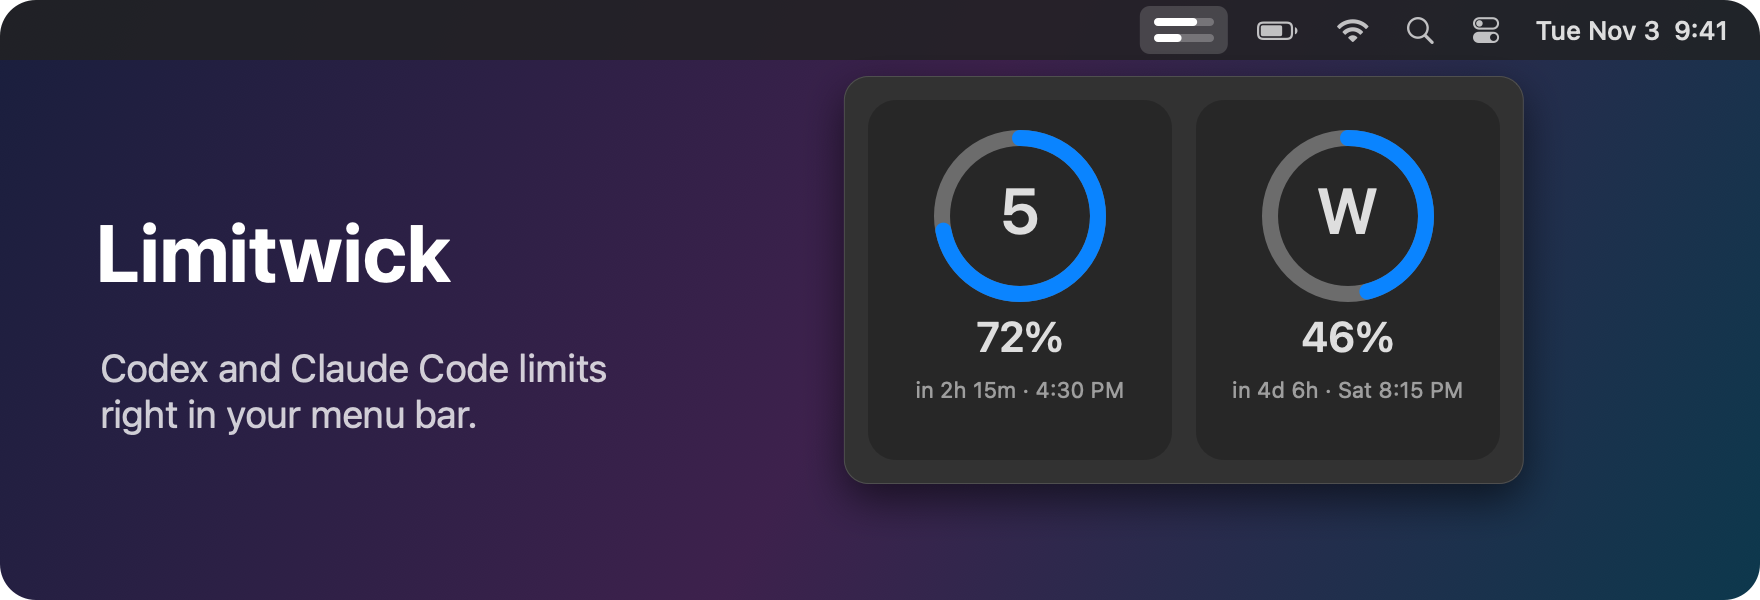
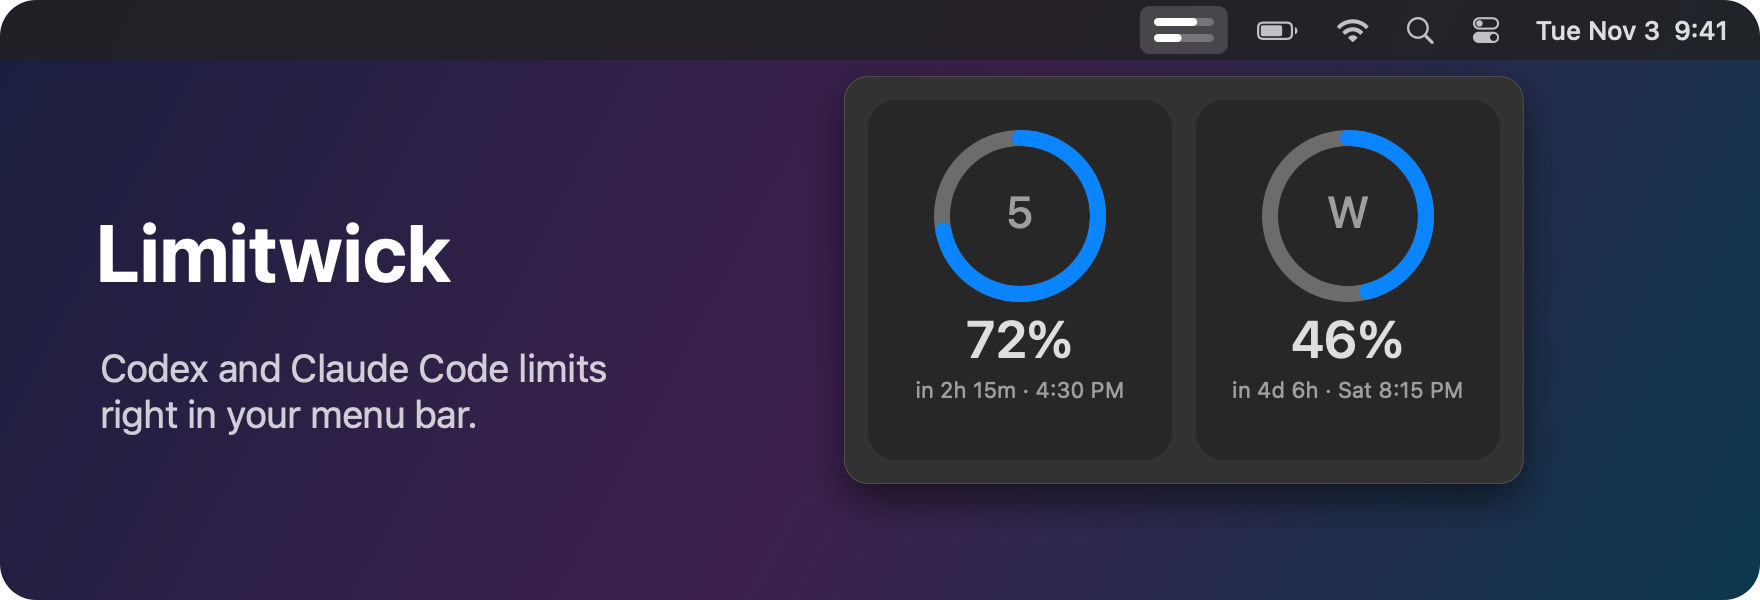
Polish About, Terminal, menu and Classic hierarchy
- About describes Codex and Claude Code limits.
- In the dual panel, Terminal no longer repeats the provider heading
  above its own "> NAME / LIMITS" header; its error note follows the
  readout it qualifies.
- Menu rows stay clear at rest and fill only on hover or keyboard
  selection; thin lines set off Refresh and Quit.
- Classic shows the percentage larger than the period letter in the
  ring, in the panel and in the widget.

diff --git a/Sources/InterfaceViews.swift b/Sources/InterfaceViews.swift
@@ -33,13 +33,15 @@ final class QuotaTile: NSView {
         self.symbol = symbol
         super.init(frame: NSRect(x: 0, y: 0, width: 152, height: 180))
         ring.frame = NSRect(x: 31, y: 77, width: 90, height: 90)
+        // The percentage is the reading; the period letter inside the ring only labels it.
         symbolLabel.stringValue = symbol
-        symbolLabel.font = .systemFont(ofSize: 32, weight: .semibold)
+        symbolLabel.font = .systemFont(ofSize: 22, weight: .medium)
+        symbolLabel.textColor = .secondaryLabelColor
         symbolLabel.alignment = .center
-        symbolLabel.frame = NSRect(x: 31, y: 99, width: 90, height: 45)
-        valueLabel.font = .systemFont(ofSize: 21, weight: .semibold)
+        symbolLabel.frame = NSRect(x: 31, y: 107, width: 90, height: 30)
+        valueLabel.font = .systemFont(ofSize: 26, weight: .semibold)
         valueLabel.alignment = .center
-        valueLabel.frame = NSRect(x: 8, y: 46, width: 136, height: 28)
+        valueLabel.frame = NSRect(x: 8, y: 43, width: 136, height: 33)
         resetLabel.font = .systemFont(ofSize: 11)
         // The system secondary gray is 3.9:1 on the light tile; a darker gray keeps 4.5:1.
         resetLabel.textColor = NSColor(name: nil) { $0.bestMatch(from: [.darkAqua, .aqua]) == .darkAqua ? .secondaryLabelColor : NSColor(white: 0.40, alpha: 1) }
@@ -63,8 +65,8 @@ final class QuotaTile: NSView {
         frame.size.height = 180 + extra
         resetLabel.frame.size.height = 34 + extra
         ring.frame.origin.y = 77 + extra
-        symbolLabel.frame.origin.y = 99 + extra
-        valueLabel.frame.origin.y = 46 + extra
+        symbolLabel.frame.origin.y = 107 + extra
+        valueLabel.frame.origin.y = 43 + extra
     }
     func update(_ window: QuotaWindow?, reset: String, stale: Bool = false) {
         ring.value = window?.remaining
@@ -139,11 +141,14 @@ final class MenuButton: NSButton {
     override func draw(_ dirtyRect: NSRect) {
         guard let p = paletteProvider?() else { return }
         let selected = isEnabled && (hovered || keyboardSelected)
+        // Rows stay clear at rest like a native menu; only the selected row and an update offer are filled.
         let background = highlightsUpdate
             ? (p.background.blended(withFraction: selected ? 0.36 : 0.24, of: .systemBlue) ?? p.surface)
-            : (p.background.blended(withFraction: selected ? 0.18 : 0.07, of: p.text) ?? p.surface)
-        background.setFill()
-        NSBezierPath(roundedRect: bounds.insetBy(dx: 2, dy: 1), xRadius: 6, yRadius: 6).fill()
+            : selected ? (p.background.blended(withFraction: 0.14, of: p.text) ?? p.surface) : nil
+        if let background = background {
+            background.setFill()
+            NSBezierPath(roundedRect: bounds.insetBy(dx: 2, dy: 1), xRadius: 6, yRadius: 6).fill()
+        }
         let foreground = isEnabled ? p.text : p.secondary.withAlphaComponent(0.55)
         let font = fontProvider?() ?? NSFont.systemFont(ofSize: 13, weight: .regular)
         let shortcutFont = NSFont.systemFont(ofSize: 12, weight: .regular)
@@ -167,6 +172,15 @@ final class MenuButton: NSButton {
         }
         if event.keyCode == 36 || event.keyCode == 76 || event.keyCode == 49 { performClick(nil); return }
         super.keyDown(with: event)
+    }
+}
+
+final class MenuSeparator: NSView {
+    var paletteProvider: (() -> ThemePalette)?
+    override func draw(_ dirtyRect: NSRect) {
+        guard let p = paletteProvider?() else { return }
+        p.text.withAlphaComponent(0.14).setFill()
+        NSRect(x: 12, y: floor(bounds.midY), width: bounds.width - 24, height: 1).fill()
     }
 }
 
@@ -286,9 +300,13 @@ final class ThemedProvidersView: NSView {
         }
         for item in providers {
             // A failure or previous-data note sits under the provider name, next to the values it qualifies.
+            // Terminal prints the name in its own "> NAME / LIMITS" header, so its note follows the readout.
             let note = item.status.hasPrefix("Updated ") ? "" : item.status
-            addLabel(item.name, font: .systemFont(ofSize: 14, weight: .semibold), color: foreground, spacing: note.isEmpty ? 8 : 2, heading: true)
-            addLabel(note, font: .systemFont(ofSize: 12), color: secondary, spacing: 8)
+            let ownHeader = theme == .terminal
+            if !ownHeader {
+                addLabel(item.name, font: .systemFont(ofSize: 14, weight: .semibold), color: foreground, spacing: note.isEmpty ? 8 : 2, heading: true)
+                addLabel(note, font: .systemFont(ofSize: 12), color: secondary, spacing: 8)
+            }
             let five = item.quota?.fiveHour, week = item.quota?.weekly
             let fiveReset = five?.reset.map { ResetText.describe($0) } ?? "Reset unavailable"
             let weekReset = week?.reset.map { ResetText.describe($0) } ?? "Reset unavailable"
@@ -302,6 +320,7 @@ final class ThemedProvidersView: NSView {
                 let height = view.preferredContentHeight + view.outerInset
                 view.frame = NSRect(x: 0, y: y, width: 340, height: height)
                 addSubview(view); y += height
+                if ownHeader { addLabel(note, font: .systemFont(ofSize: 12), color: secondary, spacing: 10) }
             } else {
                 let first = QuotaTile(symbol: "5"), second = QuotaTile(symbol: "W")
                 first.update(five, reset: fiveReset, stale: item.stale); second.update(week, reset: weekReset, stale: item.stale)

diff --git a/Sources/MenuInterface.swift b/Sources/MenuInterface.swift
@@ -8,7 +8,7 @@ extension AppDelegate {
             let version = Bundle.main.infoDictionary?["CFBundleShortVersionString"] as? String ?? "Unknown"
             let title = heading("Limitwick")
             let versionLabel = NSTextField(labelWithString: "Version \(version)"); versionLabel.tag = 902
-            let description = NSTextField(wrappingLabelWithString: "A menu bar app for Codex usage limits."); description.widthAnchor.constraint(equalToConstant: 312).isActive = true
+            let description = NSTextField(wrappingLabelWithString: "Codex and Claude Code limits in your menu bar."); description.widthAnchor.constraint(equalToConstant: 312).isActive = true
             let github = NSButton(title: "GitHub", target: self, action: #selector(openGitHub))
             let close = NSButton(title: "Close", target: self, action: #selector(closeAbout))
             let buttons = NSStackView(views: [github, close]); buttons.orientation = .horizontal; buttons.spacing = 8
@@ -56,9 +56,14 @@ extension AppDelegate {
             buttons.append(item)
         }
         view.items = buttons.compactMap { $0 as? MenuButton }
-        let list = stack(buttons, spacing: 2)
-        list.setCustomSpacing(10, after: buttons[0])
-        list.setCustomSpacing(10, after: buttons[4])
+        func separator() -> NSView {
+            let line = MenuSeparator(); line.paletteProvider = view.items.first?.paletteProvider
+            line.widthAnchor.constraint(equalToConstant: 250).isActive = true
+            line.heightAnchor.constraint(equalToConstant: 9).isActive = true
+            return line
+        }
+        // Lines set off Refresh and Quit from the other commands.
+        let list = stack([buttons[0], separator()] + buttons[1..<(buttons.count - 1)] + [separator(), buttons[buttons.count - 1]], spacing: 2)
         install(list, in: view, width: 298)
         let controller = NSViewController(); controller.view = view; menu.contentViewController = controller
         view.dismiss = { [weak menu] in menu?.performClose(nil) }

diff --git a/Tests/PanelThemeTests.swift b/Tests/PanelThemeTests.swift
@@ -16,7 +16,8 @@ import AppKit
                 let height = view.configure(providers, theme: theme, appearance: appearance, threshold: 20)
                 view.frame = NSRect(x: 0, y: 0, width: 340, height: height)
                 let labels = view.subviews.compactMap { $0 as? NSTextField }
-                precondition(labels.map(\.stringValue).contains("Codex") && labels.map(\.stringValue).contains("Claude"))
+                // Terminal names the provider in its own header instead of a separate heading.
+                precondition(labels.map(\.stringValue).contains("Codex") == (theme != .terminal) && labels.map(\.stringValue).contains("Claude") == (theme != .terminal))
                 precondition(!labels.contains { $0.stringValue == "Updated just now" })
                 precondition(labels.contains { $0.stringValue == error && $0.frame.height > 100 })
                 precondition(labels.contains { $0.stringValue.contains("Extra week: 22%") && $0.stringValue.contains("Conflicting") })
@@ -31,7 +32,8 @@ import AppKit
                 else {
                     precondition(themed.count == 2 && themed[0].data.fiveHour == 72 && themed[1].data.weekly == 84)
                     precondition(themed[0].data.providerName == "Codex" && themed[1].data.providerName == "Claude")
-                    precondition(themed[0].data.stale && !themed[1].data.stale && note.frame.maxY <= themed[0].frame.minY)
+                    precondition(themed[0].data.stale && !themed[1].data.stale)
+                    precondition(theme == .terminal ? note.frame.minY >= themed[0].frame.maxY && note.frame.maxY <= themed[1].frame.minY : note.frame.maxY <= themed[0].frame.minY)
                     precondition(themed[0].quotaColor(72, normal: .systemBlue).alphaComponent < 1 && themed[0].quotaColor(5, normal: .systemBlue) != .systemBlue)
                 }
                 guard let bitmap = view.bitmapImageRepForCachingDisplay(in: view.bounds) else { fatalError("No bitmap") }

diff --git a/Sources/WidgetTheme.swift b/Sources/WidgetTheme.swift
@@ -53,8 +53,8 @@ final class WidgetThemeView: ThemeView {
                 else { path.appendArc(withCenter: center, radius: radius, startAngle: 90, endAngle: 90 + 360 * fraction(value), clockwise: false) }
                 quotaColor(value, normal: p.accent).setStroke(); path.stroke()
             }
-            text(i == 0 ? "5" : "W", NSRect(x: x+46, y: 29, width: 60, height: 29), size: 22, color: p.text, font: .systemFont(ofSize: 22, weight: .semibold), alignment: .center)
-            text(percent(value), NSRect(x: x+10, y: 77, width: 132, height: 26), size: 20, color: p.text, font: .systemFont(ofSize: 20, weight: .semibold), alignment: .center)
+            text(i == 0 ? "5" : "W", NSRect(x: x+46, y: 34, width: 60, height: 20), size: 16, color: p.secondary, font: .systemFont(ofSize: 16, weight: .medium), alignment: .center)
+            text(percent(value), NSRect(x: x+10, y: 75, width: 132, height: 30), size: 24, color: p.text, font: .systemFont(ofSize: 24, weight: .semibold), alignment: .center)
             reset(date, NSRect(x: x+8, y: 110, width: 136, height: 32), color: p.secondary, alignment: .center)
         }
     }

diff --git a/Sources/ThemeInterface.swift b/Sources/ThemeInterface.swift
@@ -62,7 +62,7 @@ extension AppDelegate {
             let colors = palette(for: surface.effectiveAppearance)
             surface.needsDisplay = true
             func apply(_ view: NSView) {
-                if let item = view as? MenuButton { item.needsDisplay = true }
+                if view is MenuButton || view is MenuSeparator { view.needsDisplay = true }
                 if let text = view as? NSTextField {
                     text.textColor = text.tag == 902 ? colors.secondary : colors.text
                     if text.tag == 901 {
